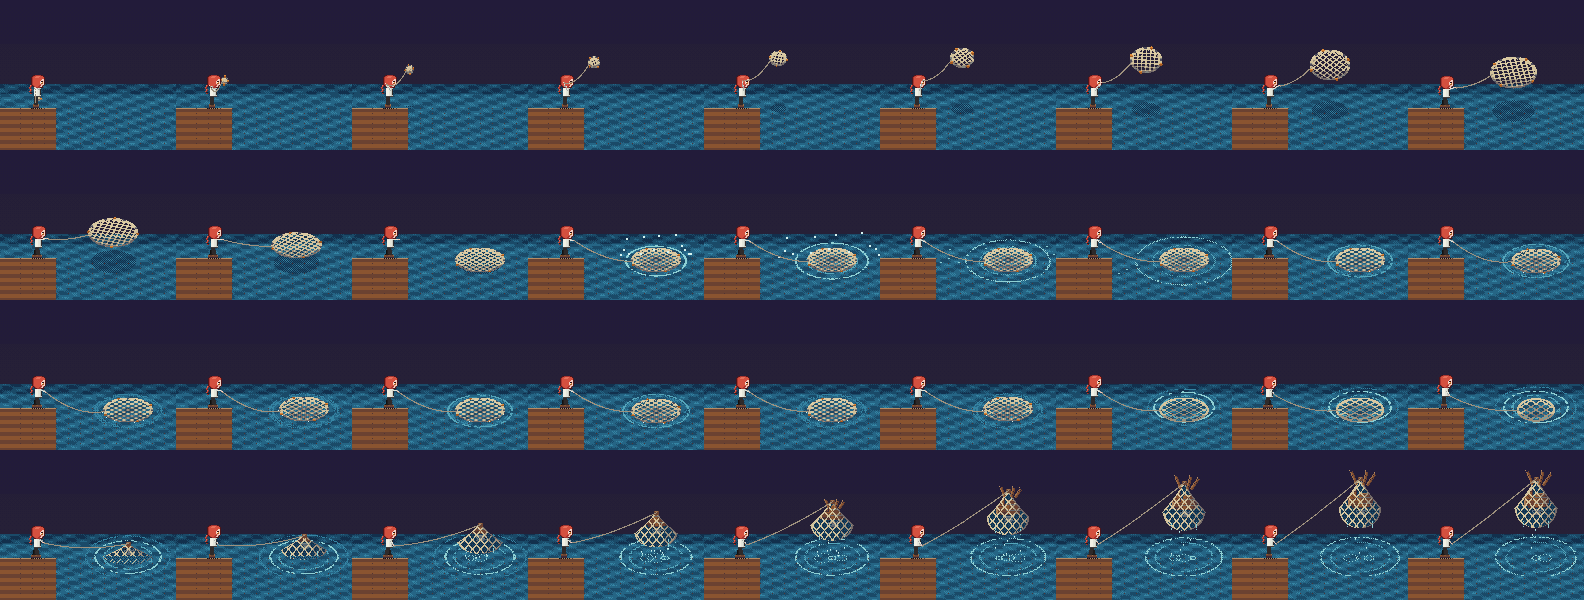
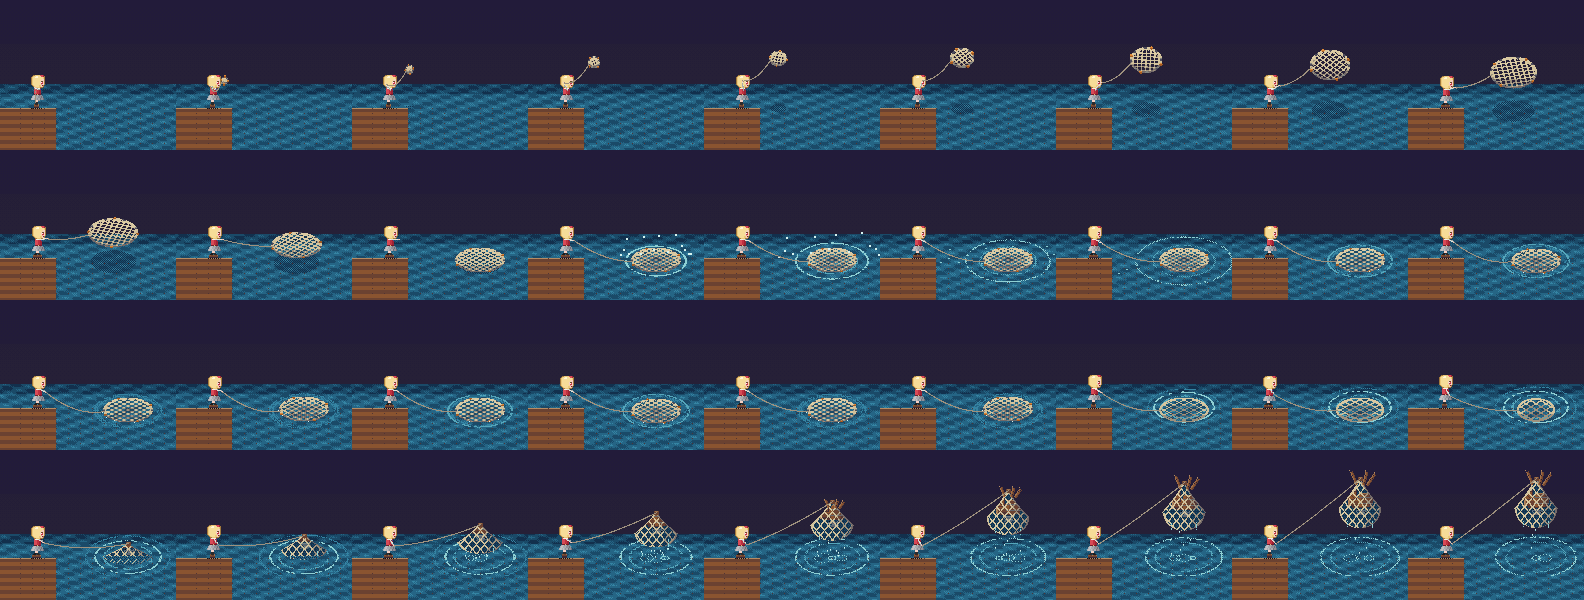
Add blonde bob chibi character; use in net sequence
Claude-Session: https://claude.ai/code/session_01StugNUrjnQmKyw4JosAoSb

diff --git a/games/farmhouse/pixel/gen_blonde_chibi.py b/games/farmhouse/pixel/gen_blonde_chibi.py
@@ -1,0 +1,143 @@
+"""
+金髪ボブの女の子（赤い制服・灰色のプリーツスカート・紺のリボン・黒いハイソックス・茶色のローファー）のちびキャラ。
+2頭身、イカダ1マスに立てる大きさ（24×36、身長33ドット）。前・後ろ・右・左を歩く（各4コマ）。左向きは右向きの反転。
+python gen_blonde_chibi.py → assets/character/blonde_chibi_sheet.png / _walk.gif / _<向き>.gif / _preview.png
+"""
+import os, math
+import numpy as np
+from PIL import Image
+import pxl
+HERE = os.path.dirname(os.path.abspath(__file__))
+OUT = os.path.join(HERE, "..", "assets", "character")
+pal, _ = pxl.load_palette()
+W, H = 24, 36
+FOOT = 32
+def C(f, s): return tuple(int(v) for v in pal[f][int(max(0, min(7, s)))])
+class Cv:
+    def __init__(self): self.a = np.zeros((H, W, 4), np.uint8)
+    def p(self, x, y, f, s):
+        x, y = int(x), int(y)
+        if 0 <= x < W and 0 <= y < H: self.a[y, x] = (*C(f, s), 255)
+    def rect(self, x0, y0, x1, y1, f, s):
+        for y in range(y0, y1 + 1):
+            for x in range(x0, x1 + 1): self.p(x, y, f, s)
+KEY = {'N': ('n', 5), 'h': ('n', 7), 'n': ('n', 4), 'o': ('n', 2), 'S': ('k', 5), 's': ('k', 4), 'b': ('k', 3), 'M': ('u', 2),
+       'E': ('n', 1), 'e': ('u', 5), 'q': ('u', 4), 'W': ('k', 7), 'B': ('u', 5), 'v': ('u', 3)}
+FRONT = ["...oonnnnBBBv.", ".onNNhhNNBBvo.", "onNNNhhNNNNnno", "onNNNNNNNNNNno", "onNNSNNNNNSNno", "onNSSSSSSSSNno",
+         "onNSEESSEESNno", "onNSWeSSWeSNno", "onNSqqSSqqSNno", "onNbSSSSSSbNno", ".onNSSMMSSNno.", "..onNSSSSNno..", "...oonNNnoo..."]
+BACK = ["...oonnnnBBBv.", ".onNNhhNNBBvo.", "onNNNhhNNNNnno", "onNNNNNNNNNNno", "onNNNNNNNNNnnno"[:14], "onNNNNNNNNNnno",
+        "onNNNNNNNNnnno", "onNNNNNNNNnnno", "onNNNNNNNNnnno", "onNNNNNNNNnnno", ".onNNNNNNnnno.", "..onNNNNnnno..", "...oonnnnoo..."]
+SIDE = ["..oonnnnnBBBv.", ".onNNhhNNNBBvo", "onNNhhhNNNNNno", "onNNNNNNNNNNno", "onNNNNNNNNNSSo", "onNNNNNNNNSSSo",
+        "onNNNNNNNSEESo", "onNNNNNNNSWeSo", "onNNNNNNNSqqSo", "onNNNNNNNNbSSo", ".onNNNNNnnSMo.", "..onNNNNnnSso.", "...oonnnnooo.."]
+for g in (FRONT, BACK, SIDE):
+    for i, r in enumerate(g): g[i] = (r + "." * 14)[:14]
+def head(cv, grid, x0, y0):
+    for j, row in enumerate(grid):
+        for i, ch in enumerate(row):
+            if ch in KEY: cv.p(x0 + i, y0 + j, *KEY[ch])
+def sh3(x, a, b):
+    t = (x - a) / max(1, b - a); return 0 if t < .34 else 1 if t < .7 else 2
+def shoe(cv, x, y, w=4, toe=0):
+    for i in range(w):
+        cv.p(x + i, y, 'D', 1); cv.p(x + i, y - 1, 'D', 3); cv.p(x + i, y - 2, 'D', 4 if i < 2 else 3)
+    if toe: cv.p(x + (w - 1 if toe > 0 else 0), y - 2, 'D', 5)
+    else: cv.p(x + 1, y - 2, 'D', 5)
+def shadow(cv):
+    for x in range(6, 18):
+        if (x + FOOT) % 2 == 0: cv.p(x, FOOT + 1, 'T', 1)
+
+def legs(cv, top, ph, side_view=False):
+    lift = {1: (1, 0), 3: (0, 1)}.get(ph, (0, 0))
+    for side, (x0, lf) in enumerate(((8, lift[0]), (13, lift[1]))):
+        for y in range(top + 25, FOOT - 2 - lf + 1):
+            for x in range(x0, x0 + 3):
+                if y < top + 27: cv.p(x, y, 'k', 5 if x == x0 else 4)       # 膝上のはだ
+                else: cv.p(x, y, 'T', 3 if x == x0 else 2)                  # 黒いハイソックス
+        shoe(cv, x0 - 1 + side, FOOT - lf, 4, 0)
+def skirt(cv, top, sway=0, front=True, back=False):
+    rows = [(7, 16), (6, 17), (6, 17), (5, 18), (5, 18)]
+    for k, (a, b) in enumerate(rows):
+        y = top + 20 + k
+        sw = sway if k >= 3 else 0
+        for x in range(a + sw, b + 1 + sw):
+            pleat = (x - a) % 3 == 0
+            s = [5, 4, 3][sh3(x, a, b)] - (1 if pleat else 0)
+            if front and 10 <= x <= 13: cv.p(x, y, 'u', 4 - (1 if x == 13 else 0))        # 前の赤いパネル
+            else: cv.p(x, y, 'g', s)
+        cv.p(a + sw, y, 'g', 2); cv.p(b + sw, y, 'g', 3)
+def torso(cv, top, front=True, back=False, side=False):
+    x0, x1 = (8, 15) if not side else (9, 15)
+    for y in range(top + 13, top + 19):
+        for x in range(x0, x1 + 1): cv.p(x, y, 'u', [5, 4, 3][sh3(x, x0, x1)])
+    cv.rect(x0, top + 19, x1, top + 19, 'u', 2); cv.p(11 if not side else 12, top + 19, 'b', 6)         # ベルト
+    if front:
+        for x in range(9, 15): cv.p(x, top + 13, 's', 6)                                                  # えり
+        cv.rect(11, top + 13, 12, top + 14, 'a', 4); cv.p(10, top + 15, 'a', 3); cv.p(13, top + 15, 'a', 3)  # 紺のリボン
+        for y in (top + 16, top + 18): cv.p(12, y, 'b', 6)                                                # ボタン
+    elif back:
+        for x in range(9, 15): cv.p(x, top + 13, 's', 5)
+    else:
+        for x in range(10, 15): cv.p(x, top + 13, 's', 6)
+        cv.p(15, top + 14, 'a', 4)
+def arms(cv, top, ph, front=True):
+    sw = {0: 0, 1: 1, 2: 0, 3: -1}[ph]
+    for side in (0, 1):
+        ax = 7 if side == 0 else 16; dy = sw * (1 if side == 0 else -1) * (1 if front else -1)
+        for y in range(top + 14 + dy, top + 20 + dy): cv.p(ax, y, 'u', 5 if side == 0 else 3)
+        cv.p(ax, top + 20 + dy, 'k', 5 if side == 0 else 3); cv.p(ax, top + 21 + dy, 'k', 4 if side == 0 else 3)
+
+def front(ph):
+    cv = Cv(); bob = 1 if ph in (0, 2) else 0; top = bob
+    legs(cv, top, ph); skirt(cv, top, {1: 1, 3: -1}.get(ph, 0), True); torso(cv, top); arms(cv, top, ph, True)
+    head(cv, FRONT, 5, top); shadow(cv); return cv
+def back(ph):
+    cv = Cv(); bob = 1 if ph in (0, 2) else 0; top = bob
+    legs(cv, top, ph); skirt(cv, top, {1: -1, 3: 1}.get(ph, 0), False, True); torso(cv, top, False, True); arms(cv, top, ph, False)
+    head(cv, BACK, 5, top); shadow(cv); return cv
+def side(ph, arms_on=True):
+    cv = Cv(); bob = 1 if ph in (0, 2) else 0; top = bob
+    spread = {0: (2, -2), 1: (0, 0), 2: (-2, 2), 3: (0, 0)}[ph]; lift = {1: (0, 1), 3: (1, 0)}.get(ph, (0, 0))
+    for (off, lf, sh) in ((spread[1], lift[1], 2), (spread[0], lift[0], 4)):
+        for y in range(top + 25, FOOT - 2 - lf + 1):
+            t = (y - (top + 25)) / max(1, FOOT - 2 - (top + 25)); cx = 10 + int(round(off * t))
+            for x in range(cx, cx + 3):
+                if y < top + 27: cv.p(x, y, 'k', 5 if sh == 4 else 3)
+                else: cv.p(x, y, 'T', 3 if sh == 4 else 2)
+        shoe(cv, 9 + off, FOOT - lf, 5, 1)
+    for k, (a, b) in enumerate([(8, 16), (7, 17), (7, 17), (6, 18), (6, 18)]):
+        y = top + 20 + k
+        for x in range(a, b + 1): cv.p(x, y, 'g', [5, 4, 3][sh3(x, a, b)] - (1 if (x - a) % 3 == 0 else 0))
+    torso(cv, top, False, False, True)
+    if arms_on:
+        for armsh, sg in ((2, -1), (4, 1)):
+            sw_ = {0: 2, 1: 1, 2: -2, 3: -1}[ph] * sg
+            for k in range(7): cv.p(11 + int(round(sw_ * k / 6)), top + 14 + k, 'u', armsh)
+            cv.p(11 + sw_, top + 21, 'k', 4 if sg > 0 else 2)
+    head(cv, SIDE, 6, top); shadow(cv); return cv
+
+if __name__ == "__main__":
+    fr = {"down": [front(i).a for i in range(4)], "up": [back(i).a for i in range(4)], "right": [side(i).a for i in range(4)]}
+    fr["left"] = [np.ascontiguousarray(f[:, ::-1]) for f in fr["right"]]
+    order = ["down", "left", "right", "up"]
+    sheet = np.zeros((H * 4, W * 4, 4), np.uint8)
+    for r, d in enumerate(order):
+        for c, f in enumerate(fr[d]): sheet[r * H:(r + 1) * H, c * W:(c + 1) * W] = f
+    Image.fromarray(sheet).save(os.path.join(OUT, "blonde_chibi_sheet.png"))
+    BG = (58, 84, 62, 255); K = 10
+    def bg(f, k=K):
+        im = Image.new("RGBA", (W, H), BG); im.alpha_composite(Image.fromarray(f)); return im.resize((W * k, H * k), Image.NEAREST).convert("RGB")
+    for d in order:
+        g = [bg(f) for f in fr[d]]; g[0].save(os.path.join(OUT, f"blonde_chibi_{d}.gif"), save_all=True, append_images=g[1:], duration=150, loop=0)
+    g = []
+    for i in range(4):
+        row = Image.new("RGB", (W * K * 4, H * K))
+        for j, d in enumerate(order): row.paste(bg(fr[d][i]), (j * W * K, 0))
+        g.append(row)
+    g[0].save(os.path.join(OUT, "blonde_chibi_walk.gif"), save_all=True, append_images=g[1:], duration=150, loop=0)
+    raft = Image.open(os.path.join(HERE, "sprites", "raft_tile.png")).convert("RGBA")
+    sea = Image.new("RGBA", (raft.width + 40, raft.height + 40), (22, 52, 78, 255)); sea.alpha_composite(raft, (20, 30))
+    sea.alpha_composite(Image.fromarray(fr["down"][0]), (20 + 33 - W // 2, 30 + 17 - FOOT + 2))
+    sea = sea.resize((sea.width * 6, sea.height * 6), Image.NEAREST).convert("RGB")
+    pv = Image.new("RGB", (W * K * 4, sea.height + H * K + 10), (40, 60, 44)); pv.paste(sea, (0, 0))
+    for j, d in enumerate(order): pv.paste(bg(fr[d][0]), (j * W * K, sea.height + 10))
+    pv.save(os.path.join(OUT, "blonde_chibi_preview.png")); print("ok")

diff --git a/games/farmhouse/pixel/gen_net_sequence.py b/games/farmhouse/pixel/gen_net_sequence.py
@@ -9,7 +9,7 @@ import numpy as np
 from PIL import Image
 import gen_net as N
 import gen_net_haul as Hl
-import gen_redhead_chibi as RC
+import gen_blonde_chibi as RC
 OUT = N.OUT
 W, H = 176, 150
 HORIZON = 84
@@ -45,7 +45,7 @@ def rope_line(img, a, b, sag):
 
 def character(img, hand, lean=0, bob=0, ph=1):
     """ちびキャラ（右向き・うでなし）を置き、肩から手まで腕をのばす。手の位置（場面の座標）を返す"""
-    spr = RC.side(ph, arms=False).a
+    spr = RC.side(ph, arms_on=False).a
     stamp(img, spr, CH_X + lean, CH_Y + bob)
     sx, sy = SHOULDER[0] + lean, SHOULDER[1] + bob
     hx, hy = sx + hand[0], sy + hand[1]

diff --git a/games/koushu-denwa/STATUS.md b/games/koushu-denwa/STATUS.md
@@ -147,3 +147,4 @@ GeForce RTX 2070 SUPER／Core i7-10700K／メモリ32GB／SSD 1TB＋HDD 2TB
 - 2026-10-08 farmhouse：網の一連（投げる→うかぶ→引き上げ）を gen_net_sequence.py でGIF化。
 - 2026-10-08 farmhouse：赤髪の女性の歩行キャラ（前後左右4コマ）を gen_redhead.py で追加（初版）。次：頭の比率・顔・横向きの胴を直す。
 - 2026-10-08 farmhouse：網の一連に、赤髪ちびキャラが桟橋で投げて引き上げる動きを入れた（gen_net_sequence.py）。
+- 2026-10-08 farmhouse：キャラを金髪ボブのちびキャラ（gen_blonde_chibi.py）に変更。網の一連もこのキャラ。赤髪版は残してある。
